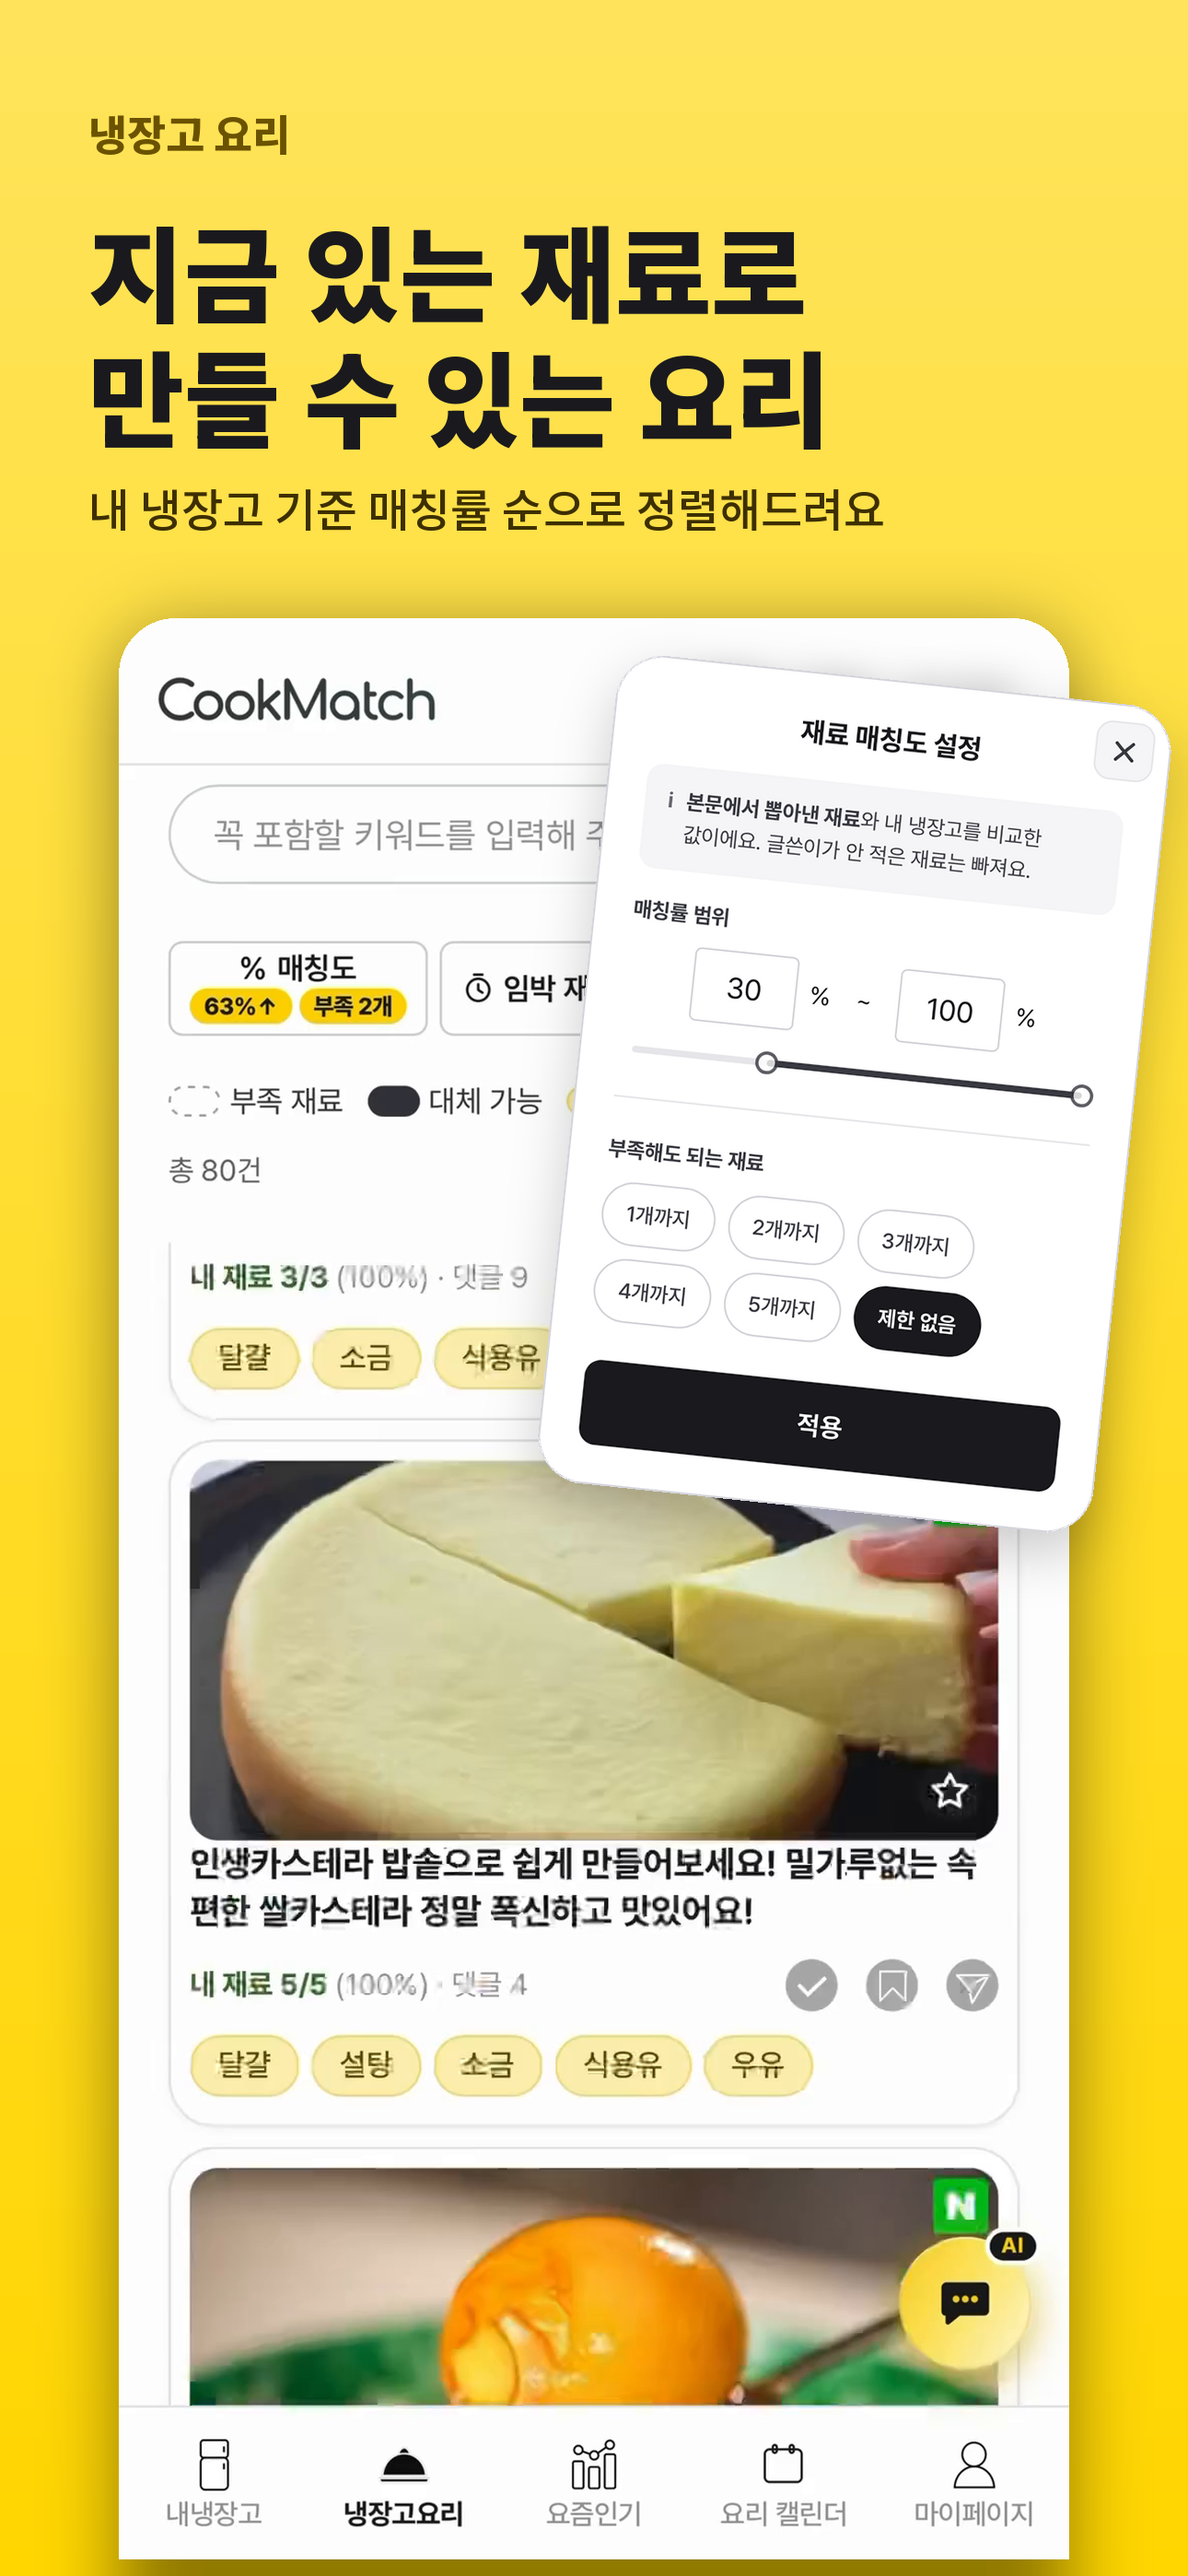
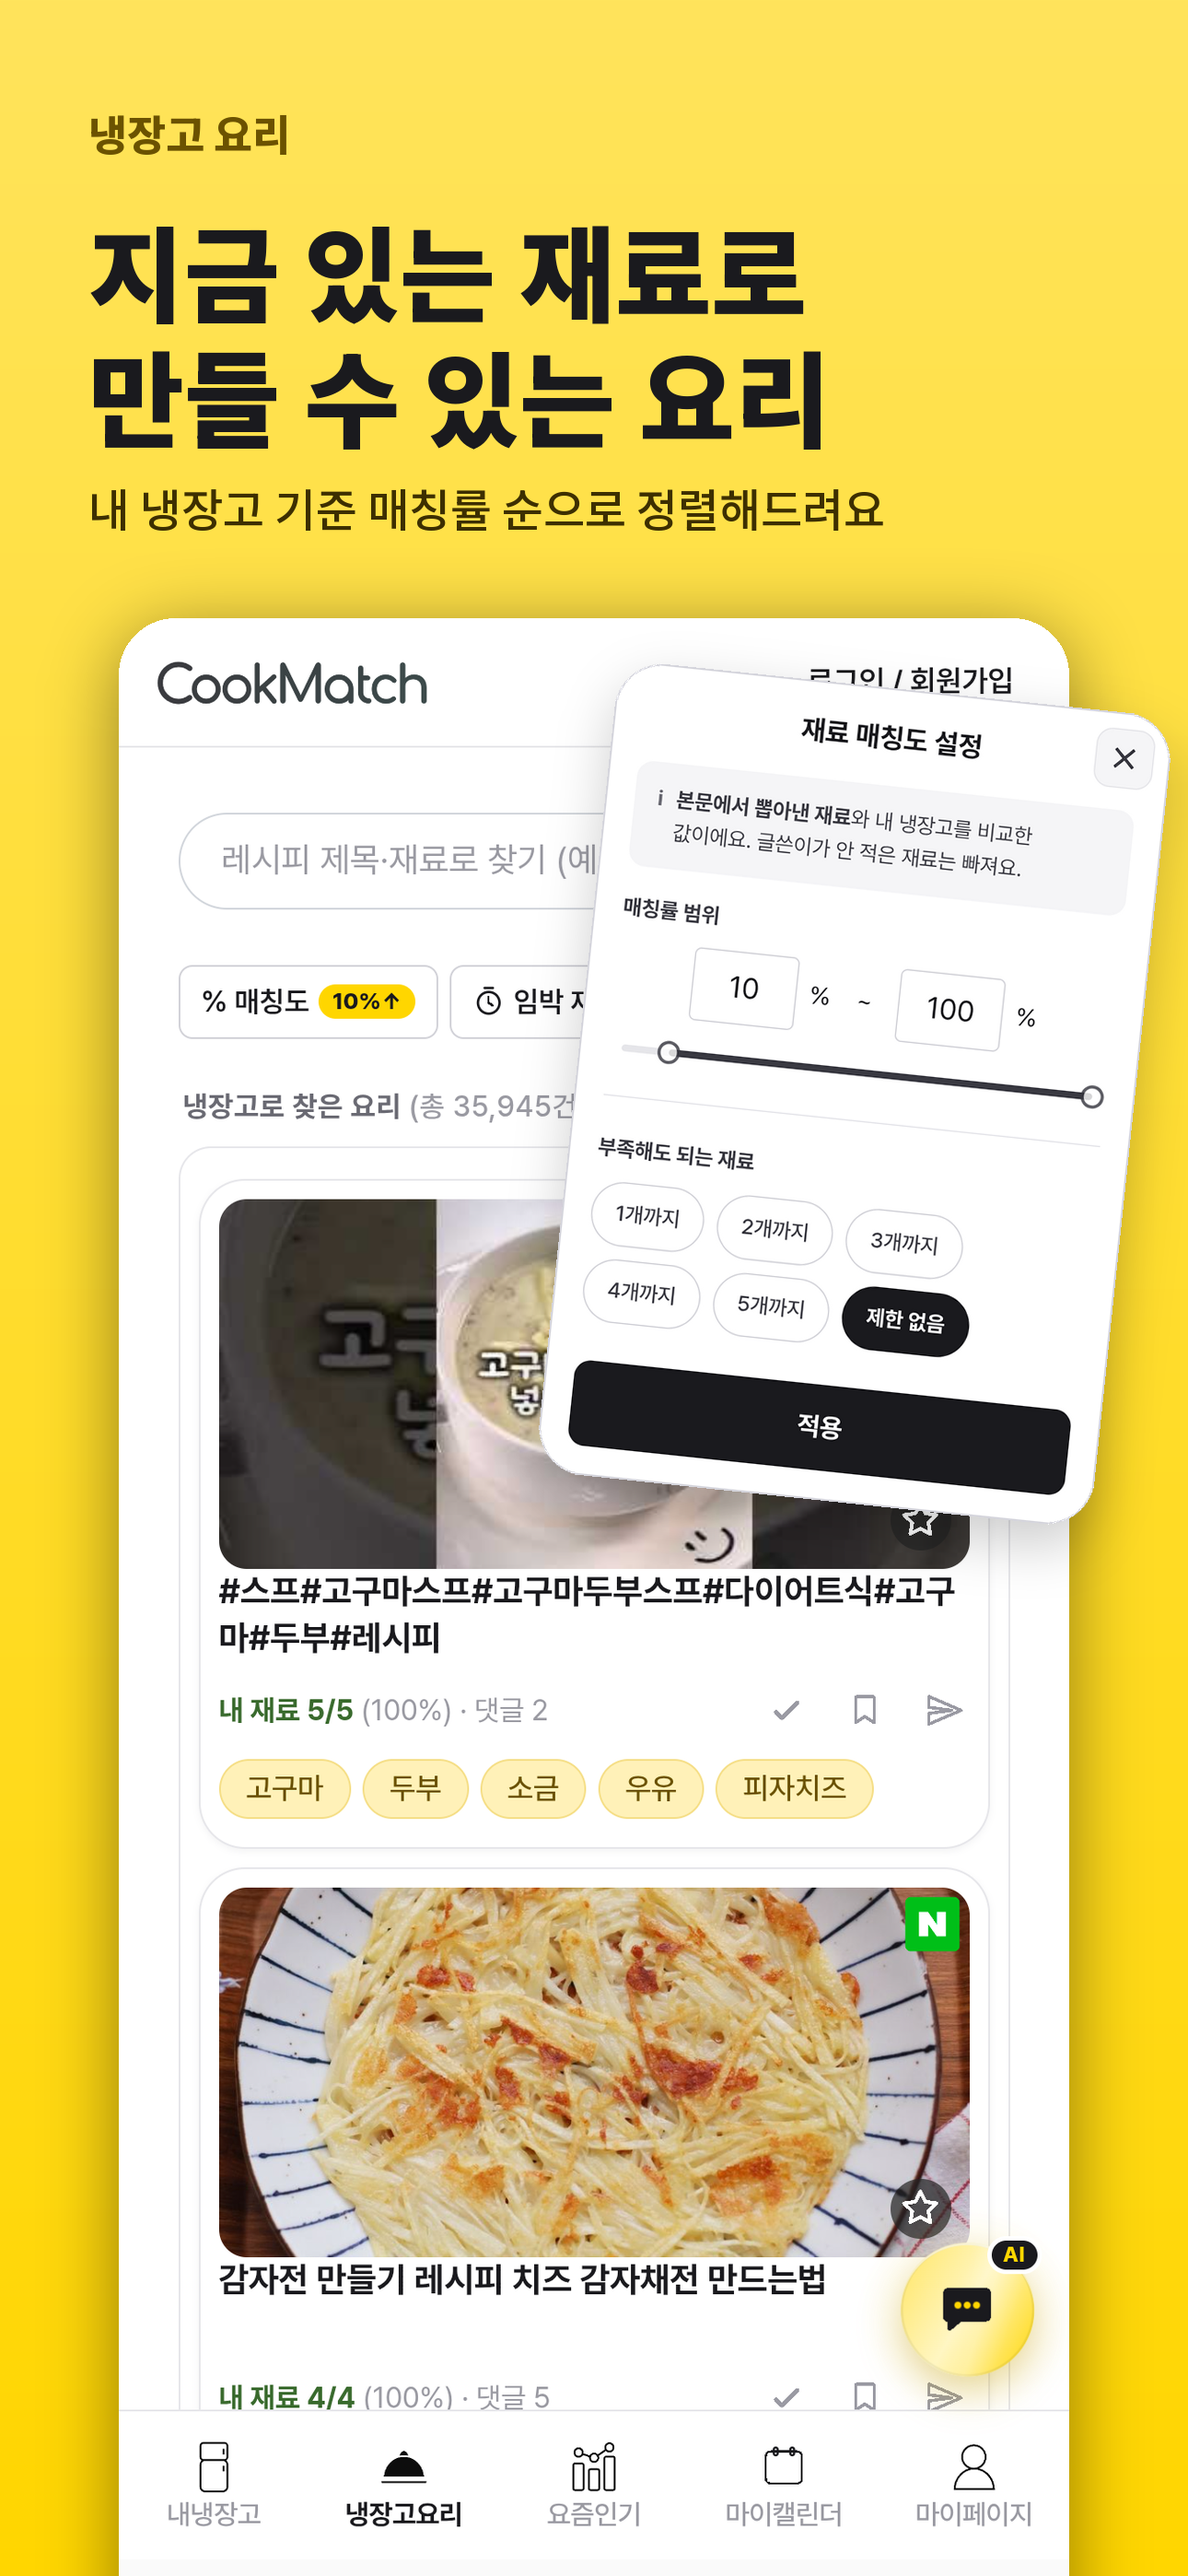
스토어 스크린샷 04~06 새 UI로 교체, 안드로이드 1.0.6(7)·iOS 1.0.5(11) 번호

diff --git a/store/make_store_assets.py b/store/make_store_assets.py
@@ -279,12 +279,17 @@ SOURCES = {
     "diet": ("store/sources/diet_ai_plan.png", None, 185),
     "chat": (V + "reel6_chatbot_demo.mp4", 29.2, 180),
     "photo": (V + "reel1_loading_freeze.png", None, 0),
-    "match": (V + "reel2_matching_demo_fixed.mp4", 9.0, 0),
-    "substitute": (V + "reel2_substitute_freeze.png", None, 0),
-    "expiry": (V + "reel5_expiry_demo.mp4", 16.0, 180),
+    # (INSETS crop 의 y 는 웹뷰 좌표에 상태바 132px 를 더한 화면 캡처 좌표다)
+    # 2026-10-09 화면 개편 뒤 새로 찍음 — 안드로이드 에뮬레이터(1080x2400)에서 실제 앱(비회원 + 배포 서버
+    # 레시피)을 그대로 캡처. 위 132px 는 안드로이드 상태바. 아래 INSETS 의 같은 이름 항목도 같은 캡처에서 자른다.
+    "match": ("store/sources/match_main.png", None, 132),
+    "substitute": ("store/sources/substitute_main.png", None, 132),
+    "expiry": ("store/sources/match_main.png", None, 132),  # 배경은 목록 그대로(임박 필터 적용 뒤 화면은 썸네일이 안 뜬 카드가 섞였다)
     "cook": (V + "reel3_reading_freeze.png", None, 180),
     "family": (V + "reel8_family_demo.mp4", 16.5, 180),
 }
+
+NO_BLUR = {"match", "substitute", "expiry"}
 
 # 폰 화면 위에 겹쳐 올리는 보조 이미지(기울인 작은 카드 / 확대 콜아웃).
 #   crop: 원본 픽셀 좌표(상태바 자르기 전)  w: 캔버스 폭 대비 너비  angle: 반시계 방향 기울기(도)
@@ -301,13 +306,13 @@ INSETS = {
              w=0.29, angle=0, cx=0.5, cy=0.33, radius=0.045),
     ],
     # 재료 매칭도 설정 팝업
-    "match": dict(src="store/sources/match_filter_popup.png", crop=(92, 642, 1114, 2166),
+    "match": dict(src="store/sources/match_filter_popup.png", crop=(94, 583, 986, 1886),
                   w=0.47, angle=-6, cx=0.72, cy=0.40, radius=0.04),
     # "대체 가능 · 당근→양파"가 있는 레시피 카드를 잘라 크게
-    "substitute": dict(src=V + "reel2_substitute_freeze.png", crop=(30, 624, 910, 1070),
+    "substitute": dict(src="store/sources/substitute_main.png", crop=(91, 1153, 990, 1548),
                        w=0.92, angle=-2, cx=0.5, cy=0.78, radius=0.03),
     # 임박 재료 설정 팝업
-    "expiry": dict(src="store/sources/expiry_filter_popup.png", crop=(92, 665, 1114, 2145),
+    "expiry": dict(src="store/sources/expiry_filter_popup.png", crop=(94, 582, 986, 1887),
                    w=0.47, angle=-6, cx=0.72, cy=0.40, radius=0.04),
     # 가족별 요리 횟수 + 이번 달 절약액과 그 계산식
     "family": dict(src=V + "reel8_savings_bg.png", crop=(20, 248, 860, 850),
@@ -350,10 +355,12 @@ def load_frame(key):
         path = cached
     im = Image.open(path).convert("RGB")
     im = im.crop((0, top_crop, im.width, im.height))
-    # 헤더 오른쪽(계정 이름·요금제 배지·로그아웃)을 블러 — 실제 사용자 이름이 찍혀 있다
-    hh = int(im.width * 0.1)
-    box = (int(im.width * 0.46), 0, im.width, hh)
-    im.paste(im.crop(box).filter(ImageFilter.GaussianBlur(int(im.width * 0.02))), box[:2])
+    # 헤더 오른쪽(계정 이름·요금제 배지·로그아웃)을 블러 — 실제 사용자 이름이 찍혀 있다.
+    # 비회원으로 새로 찍은 캡처(헤더가 `로그인 / 회원가입`)는 가릴 것이 없다.
+    if key not in NO_BLUR:
+        hh = int(im.width * 0.1)
+        box = (int(im.width * 0.46), 0, im.width, hh)
+        im.paste(im.crop(box).filter(ImageFilter.GaussianBlur(int(im.width * 0.02))), box[:2])
     return im
 
 

diff --git a/RELEASE_NOTES.md b/RELEASE_NOTES.md
@@ -11,7 +11,15 @@
 
 ---
 
-## 다음 버전 — 쌓는 중 (iOS 1.0.4 · 빌드 10 / Android 1.0.5 · versionCode 6)
+## 다음 버전 — 쌓는 중 (iOS 1.0.5 · 빌드 11 / Android 1.0.6 · versionCode 7)
+
+**Android 1.0.6(7) 빌드 완료 2026-10-09 03:30** — 아래 표 포함, 서명된 `app-release.aab`. iOS 1.0.5(빌드 11)는 `project.pbxproj` 번호만 올려 둠 — 맥에서 pull → build → cap sync → Archive. 이 시각 이후 앱 쪽을 또 고치면 다시 빌드(Android versionCode 8).
+
+| 날짜 | 변경 | 계기 |
+|---|---|---|
+| 2026-10-09 | **사용 가이드**: 기록 버튼 안내 문구를 `버튼을 누르면 레시피를 기록 상태로 저장해요. 기록 레시피는 마이페이지에서 확인할 수 있어요.` 로, 순서를 카드 버튼과 맞게(기록 10번째 · 링크 복사 11번째). **알림 설정**: 알림을 못 켜는 기기에서도 칸은 늘 보이고(토글 꺼짐), 켜면 첫 접속 때와 같은 안내 팝업 → `알림 켜기`. **내냉장고** 재료 칸 높이를 늘려 알약 4줄째가 간신히 보이게 | 사용자 요청 |
+
+## 제출한 수정 모음 — iOS 1.0.4 (빌드 10) · Android 1.0.5 (versionCode 6) — 2026-10-09 제출
 
 **Android 1.0.5(6) 빌드 완료 2026-10-09 02:47** — 아래 표 전부 포함, 서명된 `app-release.aab`(`frontend/android/app/build/outputs/bundle/release/`). **2026-10-09 비공개 테스트(Alpha)에 업로드·검토 제출**(출시명 `6 (1.0.5)`, 관리형 게시 꺼짐 → 통과하면 자동 게시). 결과는 Gmail·Play Console 알림. 이 시각 이후 앱 쪽을 또 고치면 다시 빌드(같은 versionCode 로는 업로드 불가 → 7).
 
@@ -19,7 +27,6 @@
 
 | 날짜 | 변경 | 계기 |
 |---|---|---|
-| 2026-10-09 | **사용 가이드**: 기록 버튼 안내 문구를 `버튼을 누르면 레시피를 기록 상태로 저장해요. 기록 레시피는 마이페이지에서 확인할 수 있어요.` 로, 순서를 카드 버튼과 맞게(기록 10번째 · 링크 복사 11번째). **알림 설정**: 알림을 못 켜는 기기에서도 칸은 늘 보이고(토글 꺼짐), 켜면 첫 접속 때와 같은 안내 팝업 → `알림 켜기`. **내냉장고** 재료 칸 높이를 늘려 알약 4줄째가 간신히 보이게 | 사용자 요청 |
 | 2026-10-09 | **글자 크기를 키운 환경**(크롬 접속 · 앱 1.3배 상한 안쪽)에서 깨지던 곳 수선 — 하단 탭 글자가 중간에서 줄바꿈, 냉장고요리 정렬·필터 버튼이 잘리거나 밀림, 마이캘린더 AI 식단 버튼·이번 달 목표 카드 글자 잘림, 식단 짜기 `조건 말하고 추천받기` 줄 제목이 찌그러짐 | 사용자: 어르신 폰(큰 글자)에서도 UI가 안 깨지는지 |
 | 2026-10-09 | 내냉장고: 보관함 상자 위에 회색 제목 `내 냉장고 재료 관리` 추가, `곧 상해요 N개` 알림은 아래 큰 띠에서 **제목 줄 오른쪽의 작은 빨간 칩**(`! 곧 상해요 2개 ›`)으로 이동 | 사용자 요청 |
 | 2026-10-09 | 내냉장고: `저장됨` 표시를 우측 상단(검색 박스에 붙어 있던 자리)에서 **화면 아래 작은 토스트**로. 저장 실패 땐 붉은 토스트 + `다시 시도` | 사용자 직접 사용 |
